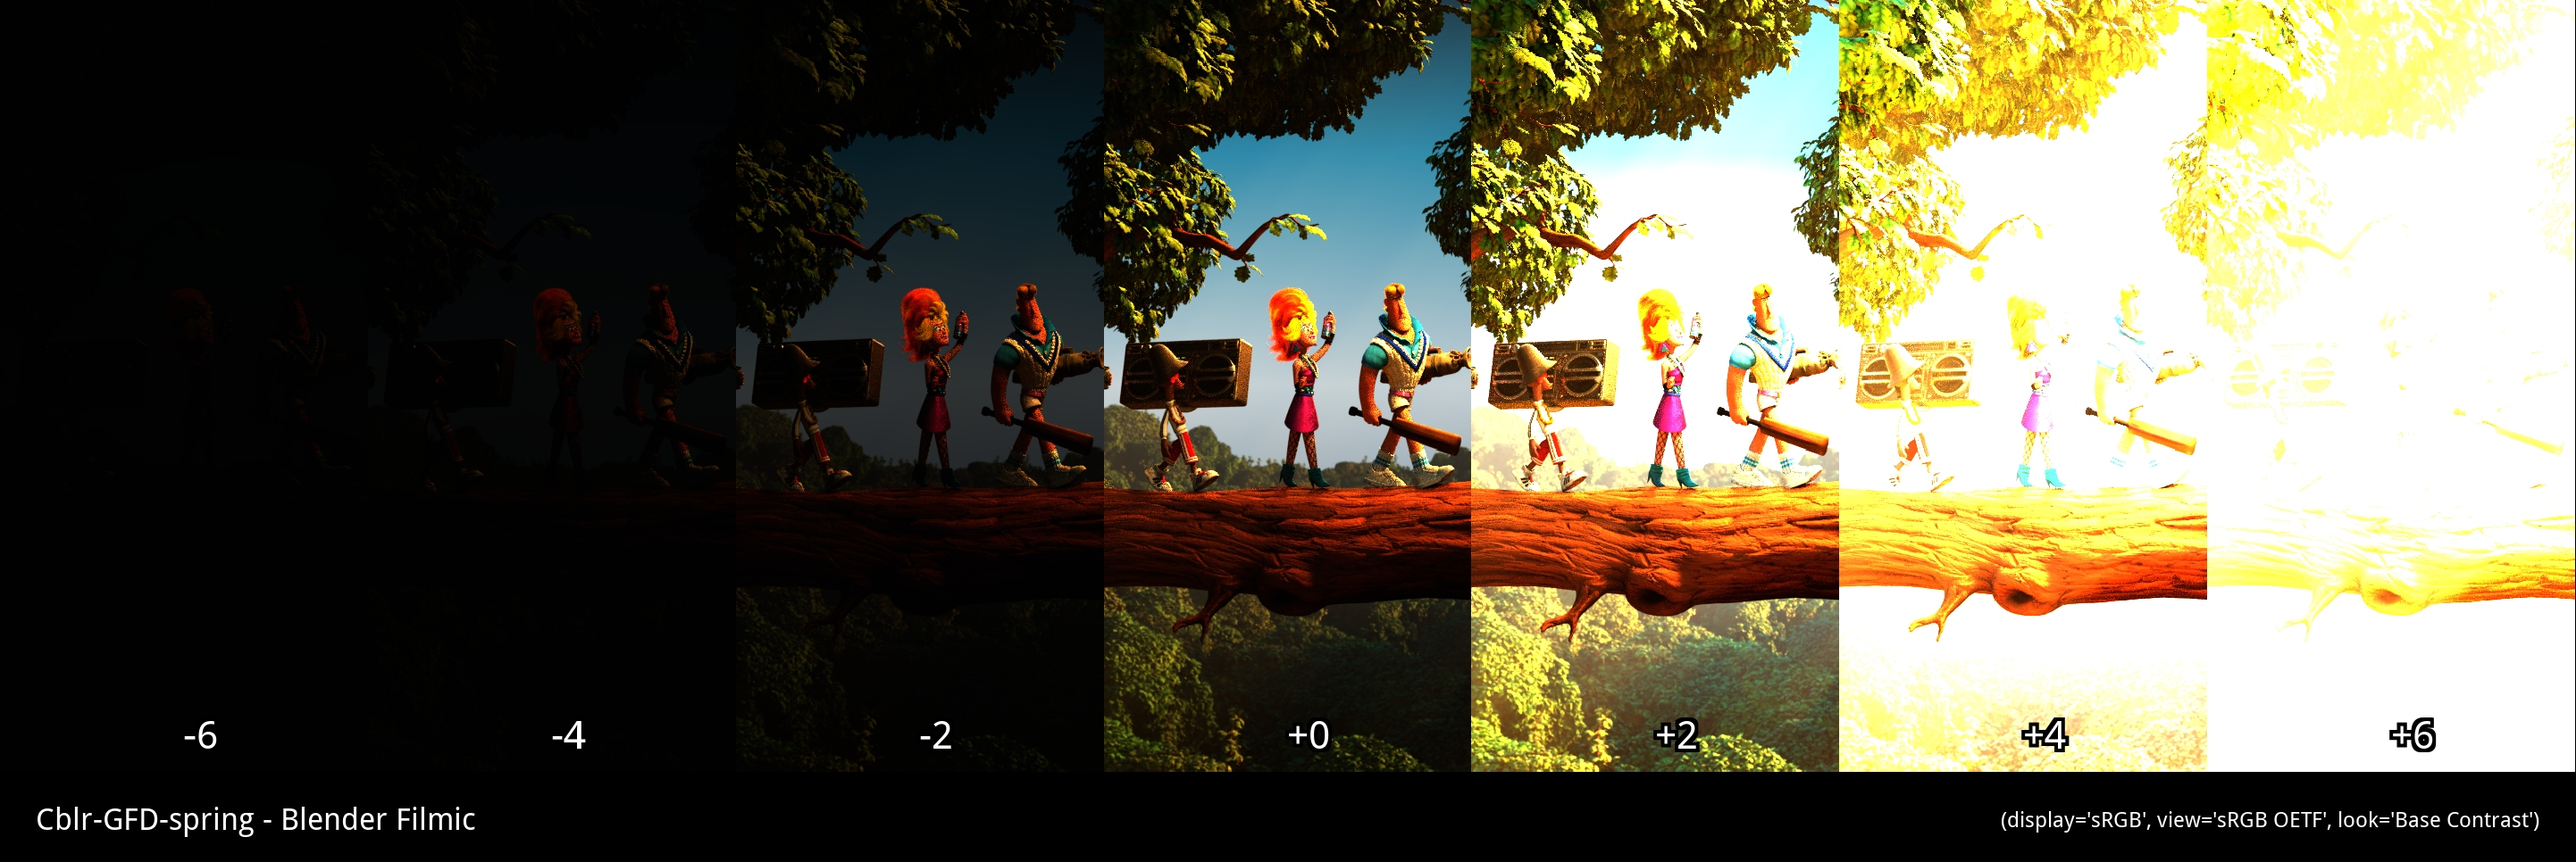
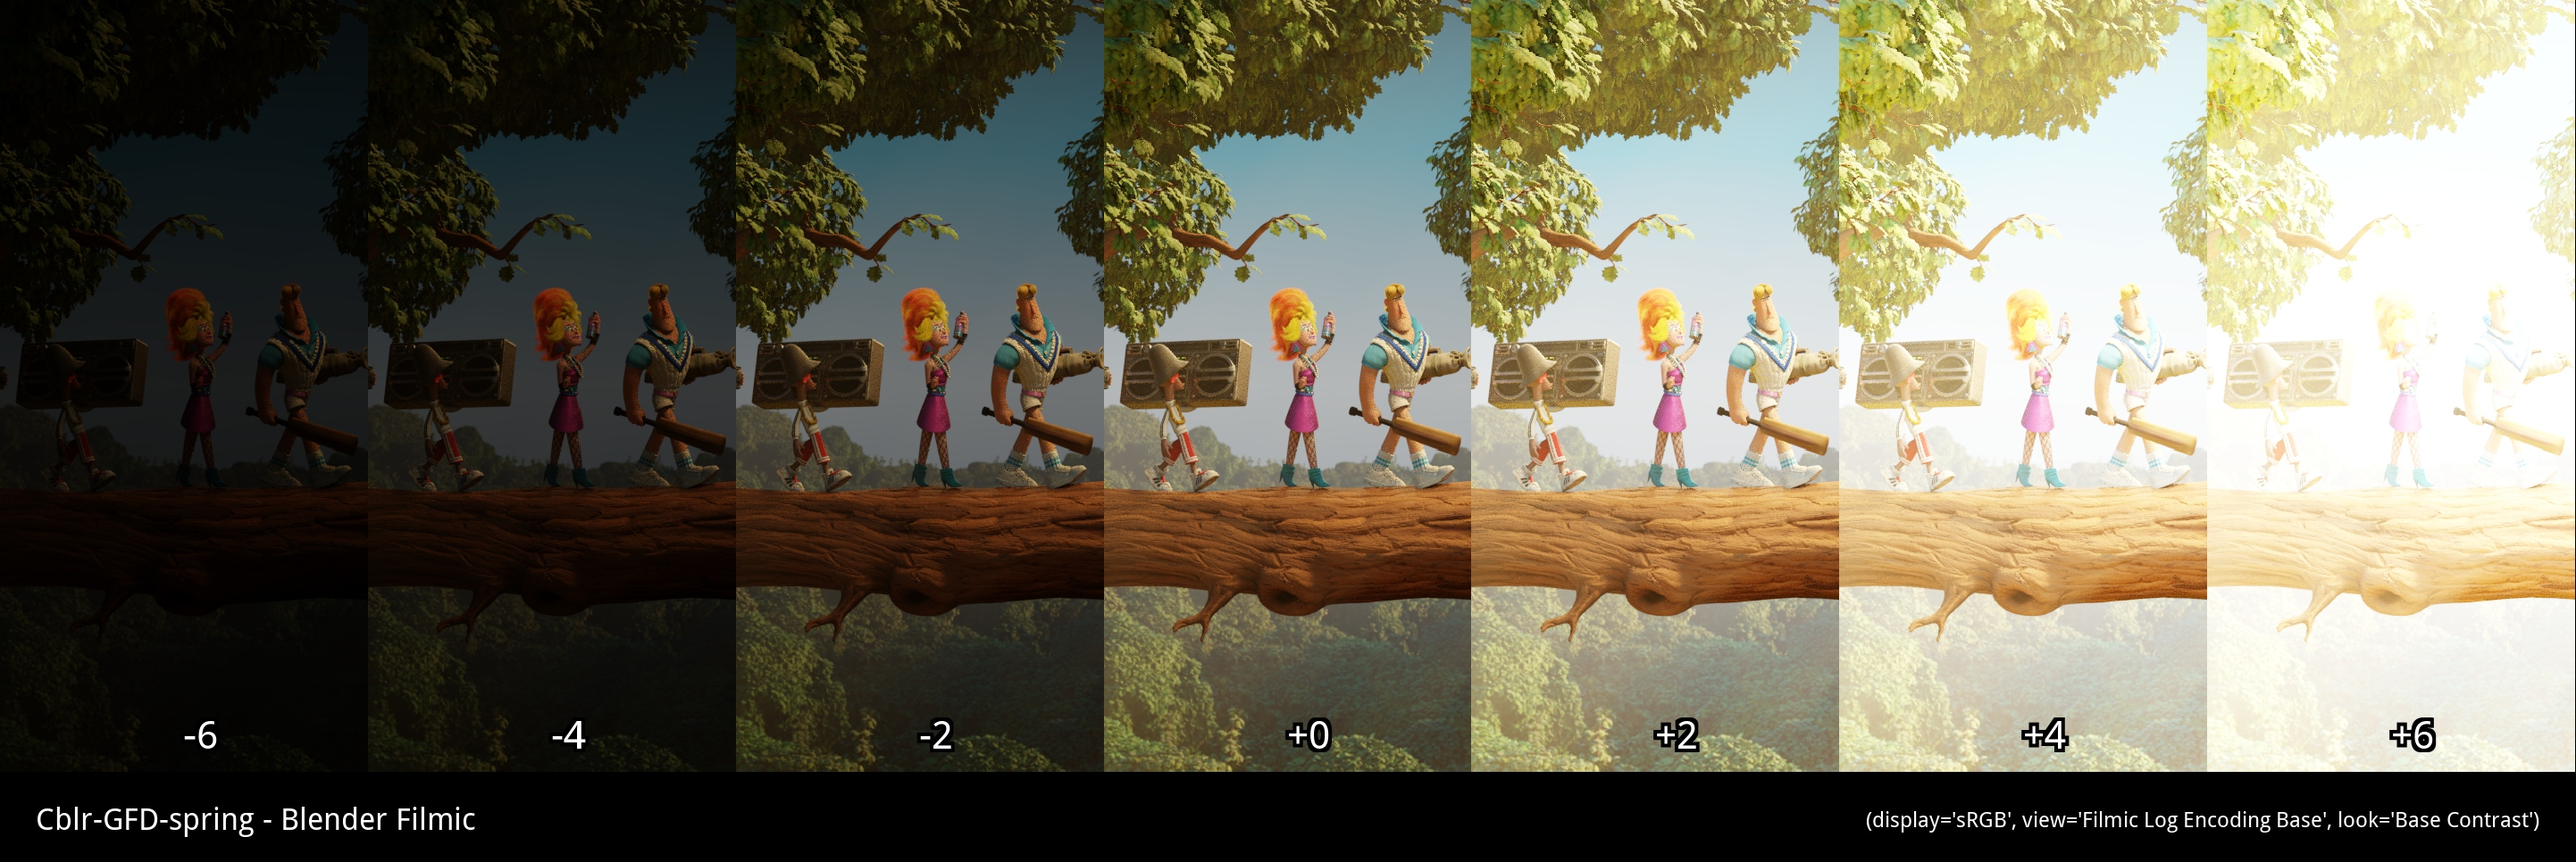
chore(doc-imagegen): also render all src in full; fix filmic

diff --git a/.dev/implementations/doc/scripts/doc-imagegen.py b/.dev/implementations/doc/scripts/doc-imagegen.py
@@ -206,6 +206,51 @@ class OcioConfigRenderer:
     view: str
     look: str = ""
 
+    def generate_exposure_bands(
+        self,
+        src_path: Path,
+        dst_path: Path,
+        band_x_offset: float,
+    ):
+        look_str = f", look='{self.look}'" if self.look else ""
+        command = oiiotool_generate_expo_bands(
+            src_path=src_path,
+            dst_path=dst_path,
+            text_left=f"{src_path.stem} - {self.name}",
+            text_right=f"(display='{self.display}', view='{self.view}'{look_str})",
+            ocio_config=self.config_path,
+            ocio_display=self.display,
+            ocio_view=self.view,
+            ocio_srgb_lin=self.srgb_lin,
+            ocio_look=self.look,
+            band_number=7,
+            band_width=0.2,
+            band_exposure_offset=2,
+            band_x_offset=band_x_offset,
+        )
+        LOGGER.debug(f"subprocess.run({command})")
+        subprocess.run(command)
+
+    def generate_full_render(
+        self,
+        src_path: Path,
+        dst_path: Path,
+    ):
+        look_str = f", look='{self.look}'" if self.look else ""
+        command = oiiotool_ocio_render(
+            src_path=src_path,
+            dst_path=dst_path,
+            text_left=f"{src_path.stem} - {self.name}",
+            text_right=f"(display='{self.display}', view='{self.view}'{look_str})",
+            ocio_config=self.config_path,
+            ocio_display=self.display,
+            ocio_view=self.view,
+            ocio_srgb_lin=self.srgb_lin,
+            ocio_look=self.look,
+        )
+        LOGGER.debug(f"subprocess.run({command})")
+        subprocess.run(command)
+
 
 @dataclasses.dataclass
 class SourceAsset:
@@ -304,7 +349,7 @@ def main(target_dir: Path):
             ),
             srgb_lin="Linear",
             display="sRGB",
-            view="sRGB OETF",
+            view="Filmic Log Encoding Base",
             look="Base Contrast",
         ),
     ]
@@ -333,60 +378,46 @@ def main(target_dir: Path):
         LOGGER.debug(f"mkdir({target_src_dir})")
         target_src_dir.mkdir()
 
-        outputs = []
+        bands_outputs = []
+        full_outputs = []
 
-        if not src_asset.skip_bands:
+        for renderer in renderers:
+            dst_path = target_src_dir / f"{src_path.stem}.full.{renderer.filename}.jpg"
+            LOGGER.info(f"generating '{dst_path.name}' ...")
+            renderer.generate_full_render(
+                src_path=src_path,
+                dst_path=dst_path,
+            )
+            full_outputs.append(dst_path)
 
-            for renderer in renderers:
-                dst_path = (
-                    target_src_dir
-                    / f"{src_path.stem}.exposures.{renderer.filename}.jpg"
-                )
-                LOGGER.info(f"generating '{dst_path.name}' ...")
-                look_str = f", look='{renderer.look}'" if renderer.look else ""
-                command = oiiotool_generate_expo_bands(
-                    src_path=src_path,
-                    dst_path=dst_path,
-                    text_left=f"{src_path.stem} - {renderer.name}",
-                    text_right=f"(display='{renderer.display}', view='{renderer.view}'{look_str})",
-                    ocio_config=renderer.config_path,
-                    ocio_display=renderer.display,
-                    ocio_view=renderer.view,
-                    ocio_srgb_lin=renderer.srgb_lin,
-                    ocio_look=renderer.look,
-                    band_number=7,
-                    band_width=0.2,
-                    band_exposure_offset=2,
-                    band_x_offset=src_asset.exposure_bands_offset,
-                )
-                LOGGER.debug(f"subprocess.run({command})")
-                subprocess.run(command)
-                outputs.append(dst_path)
+            if src_asset.skip_bands:
+                continue
 
+            dst_path = (
+                target_src_dir / f"{src_path.stem}.exposures.{renderer.filename}.jpg"
+            )
+            LOGGER.info(f"generating '{dst_path.name}' ...")
+            renderer.generate_exposure_bands(
+                src_path=src_path,
+                dst_path=dst_path,
+                band_x_offset=src_asset.exposure_bands_offset,
+            )
+            bands_outputs.append(dst_path)
+
+        if bands_outputs:
             # create a mosaic which combine all the image created by the renderers
             dst_path = target_src_dir / f"{src_path.stem}.exposures.overview.jpg"
             LOGGER.info(f"generating '{dst_path.name}' ...")
-            command = oiiotool_tile(outputs, dst_path)
+            command = oiiotool_tile(bands_outputs, dst_path)
             LOGGER.debug(f"subprocess.run({command})")
             subprocess.run(command)
 
-        # render the image in full using AgXc renderer
-        renderer = renderers[0]
-        dst_path = target_src_dir / f"{src_path.stem}.full.{renderer.filename}.jpg"
-        look_str = f", look='{renderer.look}'" if renderer.look else ""
-        command = oiiotool_ocio_render(
-            src_path=src_path,
-            dst_path=dst_path,
-            text_left=f"{src_path.stem} - {renderer.name}",
-            text_right=f"(display='{renderer.display}', view='{renderer.view}'{look_str})",
-            ocio_config=renderer.config_path,
-            ocio_display=renderer.display,
-            ocio_view=renderer.view,
-            ocio_srgb_lin=renderer.srgb_lin,
-            ocio_look=renderer.look,
-        )
-        LOGGER.debug(f"subprocess.run({command})")
-        subprocess.run(command)
+        if full_outputs:
+            dst_path = target_src_dir / f"{src_path.stem}.full.overview.jpg"
+            LOGGER.info(f"generating '{dst_path.name}' ...")
+            command = oiiotool_tile(full_outputs, dst_path)
+            LOGGER.debug(f"subprocess.run({command})")
+            subprocess.run(command)
 
     etime = time.time() - stime
     LOGGER.info(f"finished in {etime:.1f}s")
